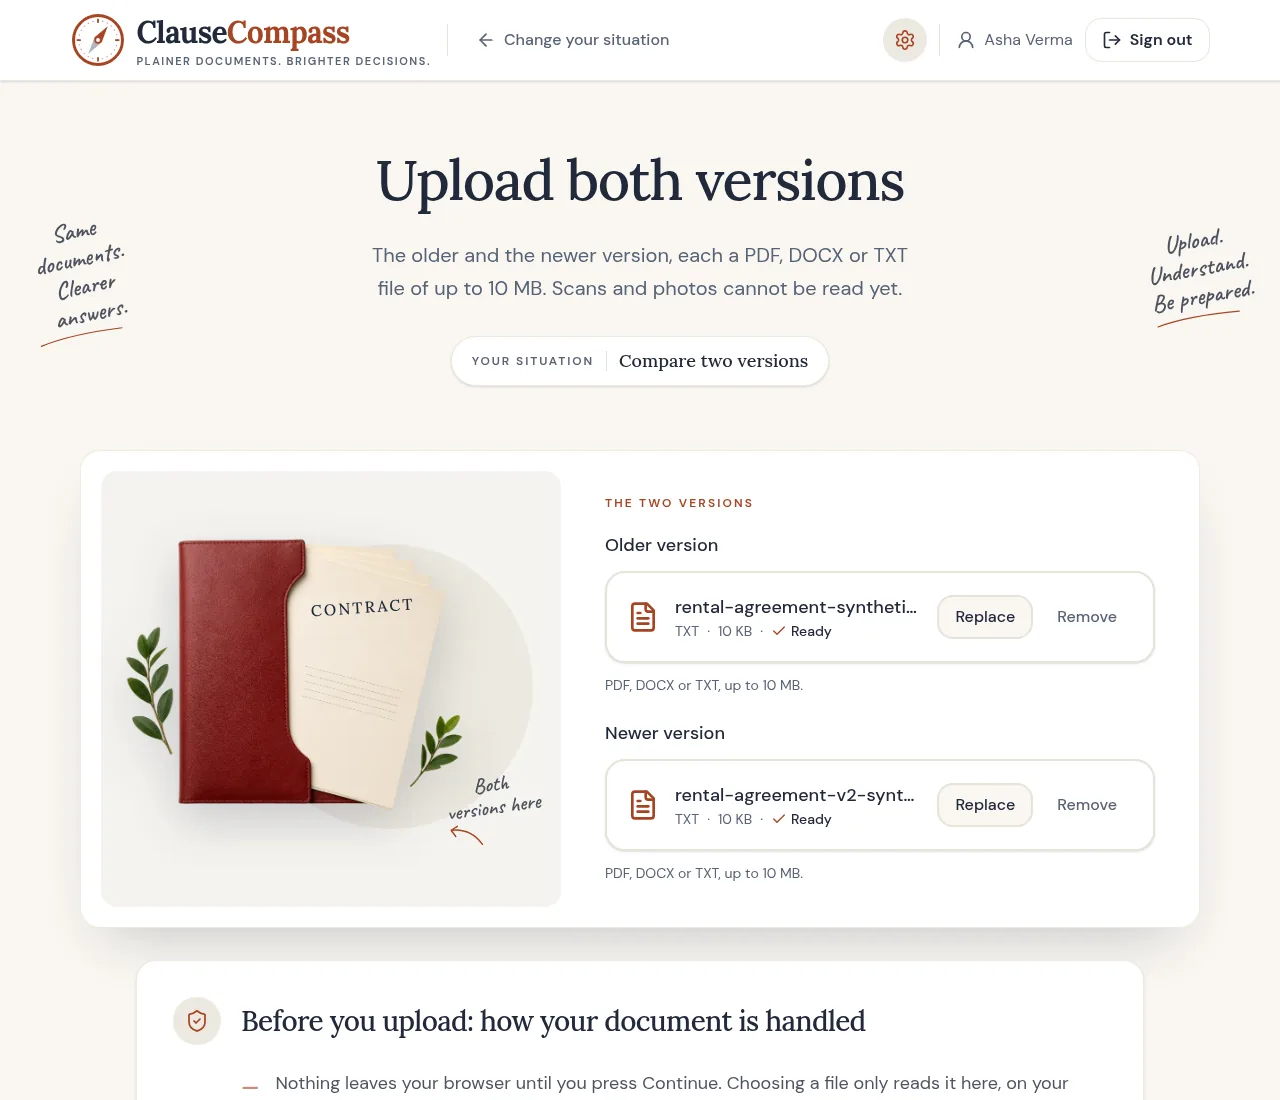
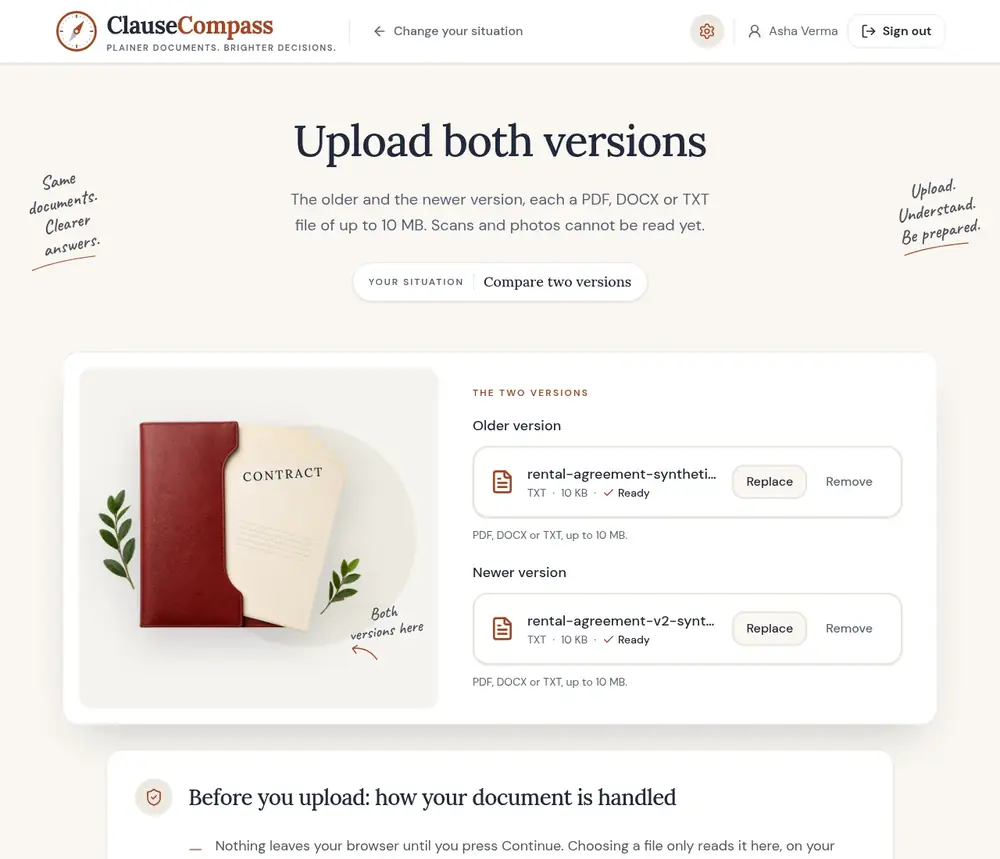
Re-encode the README screenshots and move the payload ceiling to 5 MiB
The screenshot set goes from 1.06 MB to 0.61 MB at 1000 px wide and
quality 72, which is what the screenshot script writes from now on. The
repo payload check, red since the screenshots landed on 17 September,
passes again at 4.74 MiB under a 5 MiB ceiling, half the submission cap.

Changed region(s): [[0.558, 0.5448, 0.651, 0.5751]]

diff --git a/replit.md b/replit.md
@@ -10,7 +10,7 @@ GenAI legal document navigator for India (Hack2Skill 2026, "AI for Legal Assista
 - `pnpm test:coverage` — the same suite under V8 coverage of the product code (include/exclude in `vitest.config.ts`; tests, `src/testing/`, `pages/dev/` excluded), text summary + HTML in `coverage/` (git-ignored). No threshold; 17 Sep 2026: 86.9% statements, 79.2% branches.
 - `pnpm lint` — ESLint flat config at the root (`eslint.config.mjs`, ESLint 10; `eslint-plugin-jsx-a11y` 6.10 still declares a peer range ending at 9, allowed in root `package.json` `pnpm.peerDependencyRules` — it runs fine on 10, and ESLint 9 is deprecated on npm): `@eslint/js` recommended + `typescript-eslint` recommended everywhere; `react-hooks` recommended (v7: also `refs`, `immutability`, `set-state-in-effect`) and `jsx-a11y` strict for the web app and the `.tsx` tests; `no-console` (warn/error allowed) in the web app's product code. Generated code and `dist/` are ignored. The three `eslint-disable-next-line` comments in the web app each carry the reason; do not add one without a reason. Runs in ~20 s.
 - `pnpm preflight` — `scripts/preflight.sh`: build → lint → test → check:client-secrets → check:size (size last so it cannot hide a secret finding), stops at the first failure, defaults `PORT`/`BASE_PATH` for the web build. `.github/workflows/ci.yml` runs the same four on push/PR to `main` (Node 22 + 24) plus `pnpm audit --audit-level=high` as a separate job.
-- `pnpm check:size` — fails if the shippable repo payload (tracked + untracked-not-ignored) exceeds 3 MiB. Failing since 17 Sep 2026 (about 3.5 MB after the 17 Sep cleanup, the user chose to leave it red for now); raising the ceiling or trimming the tree is the user's call, not yet taken.
+- `pnpm check:size` — fails if the shippable repo payload (tracked + untracked-not-ignored) exceeds 5 MiB. Was red from 17 Sep 2026 (screenshots took it to 5.2 MiB) until 18 Sep, when the screenshots were re-encoded (1000 px / q72, set 1.06 MB → 0.61 MB) and the ceiling moved 3 → 5 MiB at the user's choice; tree now 4.74 MiB. CI runs it last in the preflight job, so a red X on a commit with green build/lint/test means this step.
 - `pnpm --filter @workspace/api-spec run codegen` — regenerate API hooks and Zod schemas from the OpenAPI spec
 - `pnpm check:client-secrets` — greps the web client source, builds the bundle, greps that too; fails on any server-secret name (`ANTHROPIC_API_KEY`, `OPENAI_API_KEY`, `SESSION_SECRET`, `sk-ant-`).
 
@@ -83,7 +83,7 @@ PRD §11 suggests `src/features/*`, `src/lib/{rules,grounding}`, `server/`, `dat
 
 ## Gotchas
 
-- Run `pnpm check:size` before commits that add fixtures or docs. Hard limit is 3 MiB internally (hackathon cap 10 MB; raised from 2 MiB on 15 Sep 2026 when source and tests alone passed it). `pnpm-lock.yaml` alone is ~200 KB.
+- Run `pnpm check:size` before commits that add fixtures or docs. Hard limit is 5 MiB internally (hackathon cap 10 MB; 2 → 3 MiB on 15 Sep 2026 when source and tests alone passed it, 3 → 5 MiB on 18 Sep after the README screenshots; `scripts/docs/screenshots.mjs` now writes 1000 px / quality 72 WebPs). `pnpm-lock.yaml` alone is ~200 KB.
 - The repo will be public: never commit real documents. `samples/real/` and `attached_assets/` are git-ignored; copy what is needed into `docs/` or `samples/` deliberately.
 - `docs/PRD.md` contains internal hackathon-strategy notes (§0, §7.3(a), §13). Trim them before the repo goes public, or keep a cleaned copy.
 - Both dev servers refuse to start if `PORT` (and `BASE_PATH` for the web) is missing; on Replit the workflows set them, locally `pnpm dev` does. Do not hard-code ports.

diff --git a/README.md b/README.md
@@ -713,7 +713,7 @@ pnpm preflight
 
 That is `scripts/preflight.sh`: `pnpm build` (the strict type check over every package, then both bundles), `pnpm lint` (ESLint over every package, test and script: the core rules, the TypeScript rule set, the rules of React hooks and the static accessibility rules for JSX; `eslint.config.mjs`), `pnpm test`, `pnpm check:client-secrets` and `pnpm check:size`, in that order, stopping at the first failure (the size ceiling comes last so that a payload over it can never hide a secret in the bundle). GitHub runs the same five steps on every push and pull request to `main` on Node 22 and 24 ([`.github/workflows/ci.yml`](.github/workflows/ci.yml)), plus `pnpm audit` (high and critical) as its own job, so a new advisory fails on its own line while the preflight jobs still say whether the code builds and passes. Last full preflight on 17 September 2026: build, type check and lint clean, 922 tests passing, no secret names or key patterns in the source, the client bundle or any commit, no `.env` or real document ever committed; the payload was about 5.1 MB across some 460 files, which is over the internal ceiling described next (see the note there).
 
-`pnpm check:size` sums every tracked and unignored file and fails above 3 MiB, an internal ceiling well under the 10 MB submission limit; `samples/real/` and `attached_assets/` are git-ignored so real documents cannot be committed by accident. Fixtures are text and JSON only. The ceiling started at 2 MiB and moved once, to 3 MiB, on 15 September; on 17 September the payload passed it (about 5.1 MB: the README's screenshots and journey animation, about 1.5 MB together, the lockfile, the hero photograph and the design prompt blocks its largest files) and the check fails until the ceiling is moved again or the tree is trimmed.
+`pnpm check:size` sums every tracked and unignored file and fails above 5 MiB, an internal ceiling at half the 10 MB submission limit; `samples/real/` and `attached_assets/` are git-ignored so real documents cannot be committed by accident. Fixtures are text and JSON only. The ceiling started at 2 MiB and moved to 3 MiB on 15 September when source and tests alone passed it; the README's screenshots and journey animation (17 September) took the tree to 5.2 MiB, so on 18 September the screenshots were re-encoded at 1000 px wide and quality 72 (1.06 MB to 0.61 MB for the set) and the ceiling moved to 5 MiB, with the tree at 4.74 MiB. Its largest files are the journey animation (461 KB), the lockfile, the hero photograph and the design prompt blocks.
 
 <p align="right"><a href="#top">Back to top ↑</a></p>
 
